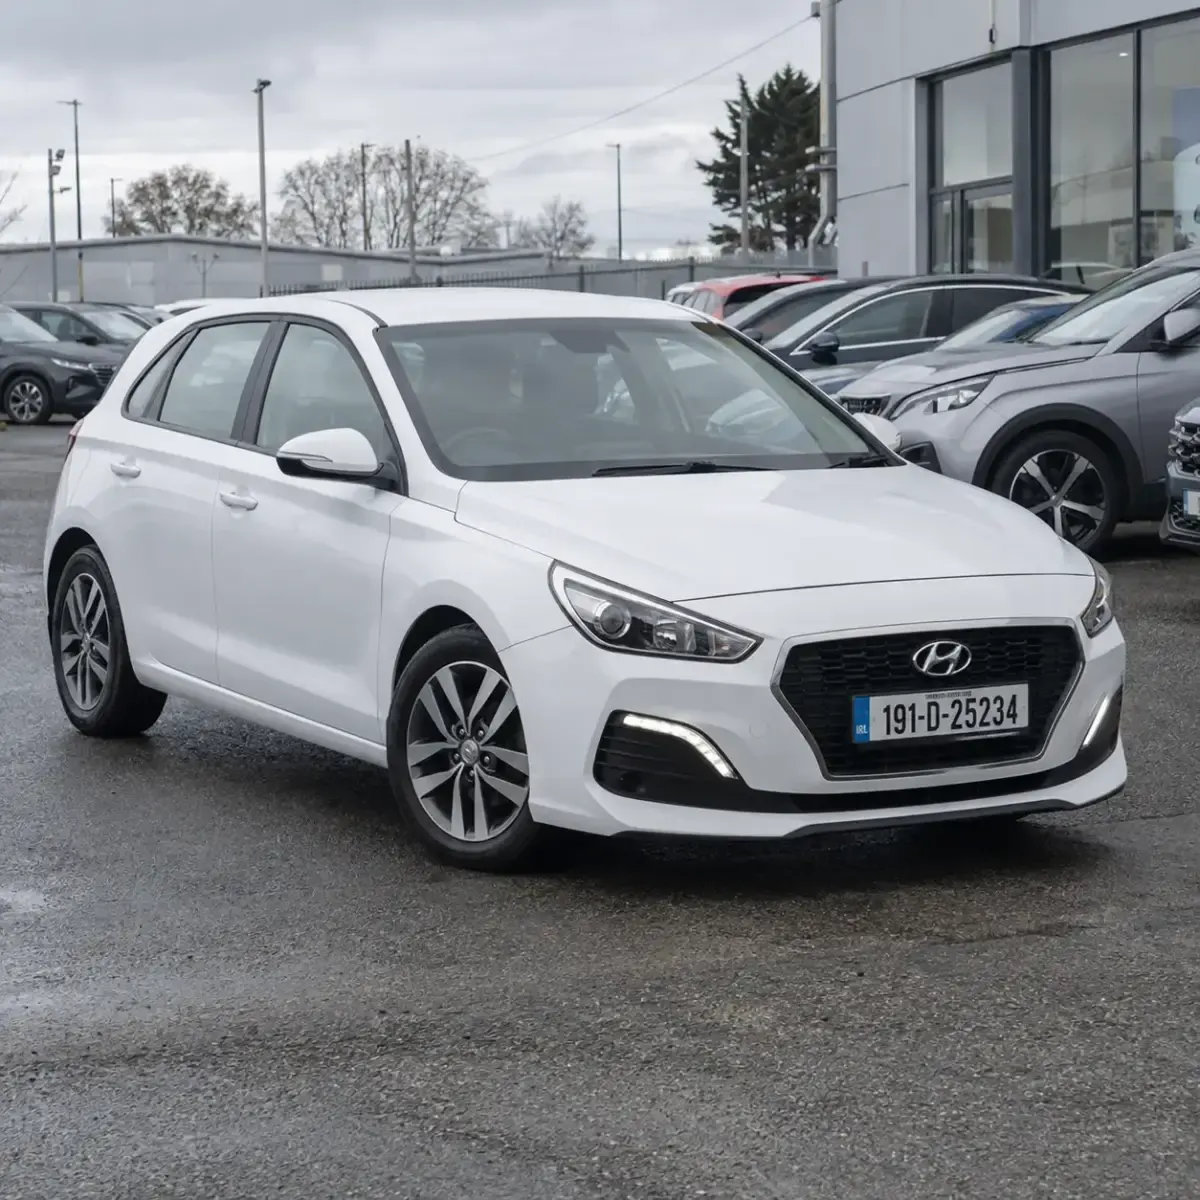
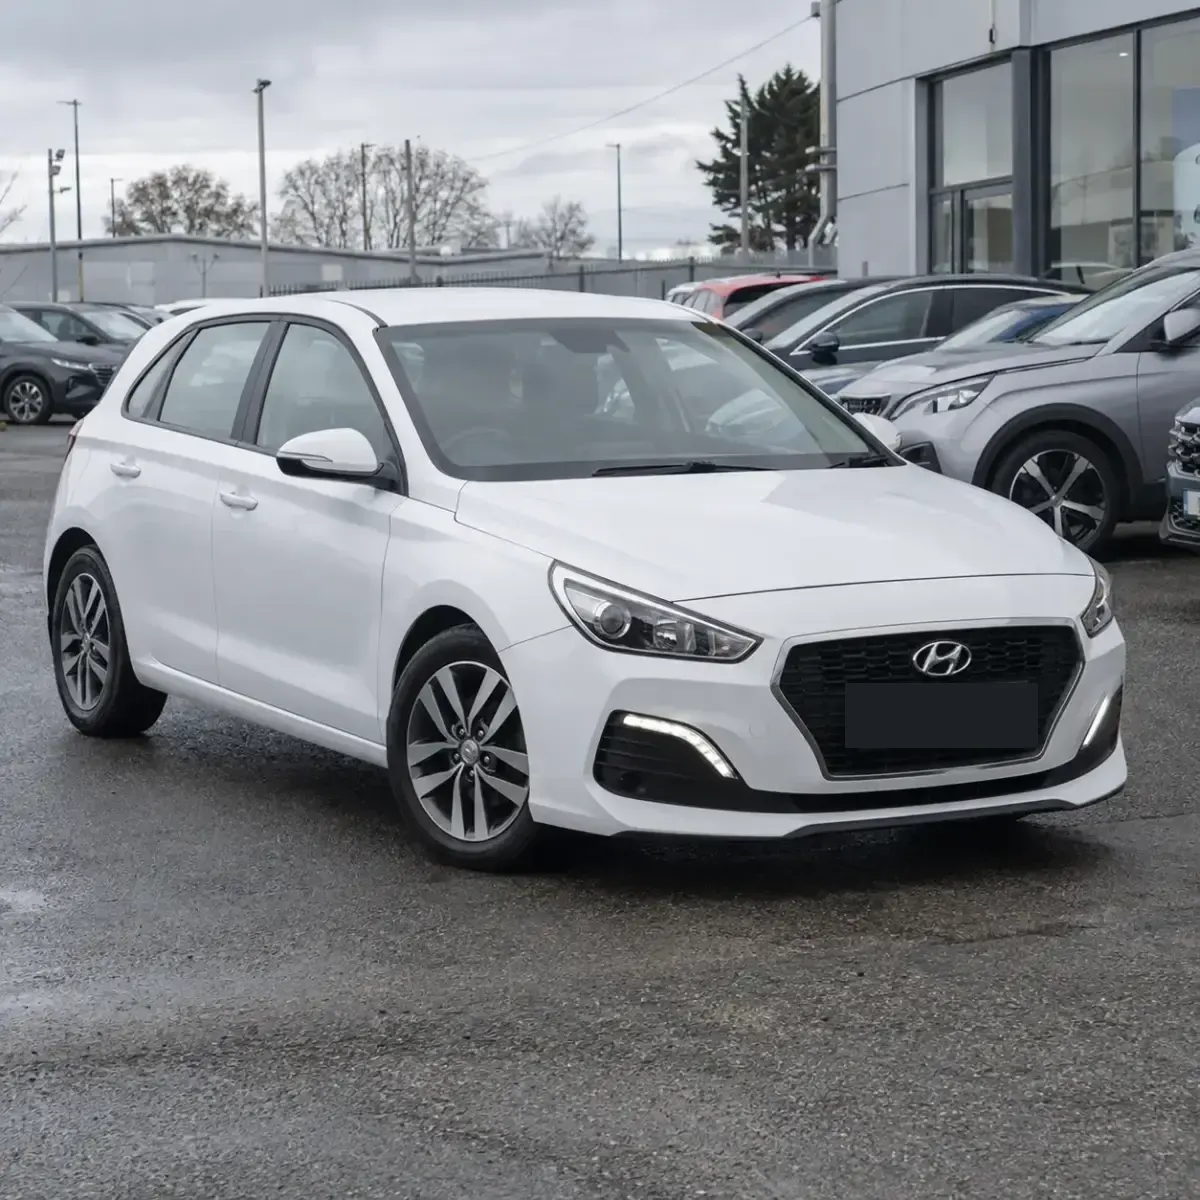
Midland Motors: faster passport scene, plates, image sizes, perf

Changed region(s): [[0.7092, 0.555, 0.8633, 0.6475]]

diff --git a/src/scripts/app.js b/src/scripts/app.js
@@ -237,18 +237,19 @@ function stripSummary(){
 function scrub(car, cls=''){
   const tg = [car.owners===1?'1 owner':'', car.fullServiceHistory?'Full service history':''].filter(Boolean).join(' · ');
   const tags = cls==='tags' && tg ? `<span class="tags"><span>${tg}</span></span>` : '';
-  return `<div class="scrub" data-scrub="${car.slug}"><img src="${car.photos[0]}" alt="${nm(car)} ${car.variant}" loading="lazy">${tags}</div>`;
+  return `<div class="scrub" data-scrub="${car.slug}"><img src="${small(car.photos[0])}" alt="${nm(car)} ${car.variant}" loading="lazy">${tags}</div>`;
 }
+const small = p => p.replace('.webp','-640.webp'), mid = p => p.replace('.webp','-960.webp');
 const preloaded = new Set();
 document.addEventListener('pointermove', e => {
   const s = e.target.closest && e.target.closest('[data-scrub]'); if (!s || e.pointerType==='touch') return;
   const car = bySlug(s.dataset.scrub);
-  if (!preloaded.has(car.slug)){ preloaded.add(car.slug); car.photos.forEach(p=>{ const im=new Image(); im.src=p; }); }
+  if (!preloaded.has(car.slug)){ preloaded.add(car.slug); car.photos.forEach(p=>{ const im=new Image(); im.src=small(p); }); }
   const r = s.getBoundingClientRect(), n = car.photos.length; const i = Math.max(0, Math.min(n-1, Math.floor((e.clientX - r.left) / r.width * n)));
   setScrub(s, car, i);
 });
 document.addEventListener('pointerout', e => { const s = e.target.closest && e.target.closest('[data-scrub]'); if (s && !s.contains(e.relatedTarget)) setScrub(s, bySlug(s.dataset.scrub), 0); });
-function setScrub(s, car, i){ if (s.dataset.i == i) return; s.dataset.i = i; s.querySelector('img').src = car.photos[i]; }
+function setScrub(s, car, i){ if (s.dataset.i == i) return; s.dataset.i = i; s.querySelector('img').src = small(car.photos[i]); }
 let touchX = null;
 document.addEventListener('touchstart', e => { const s = e.target.closest && e.target.closest('[data-scrub]'); if (s){ touchX = e.touches[0].clientX; s.classList.add('touched'); } }, {passive:true});
 document.addEventListener('touchend', e => { const s = e.target.closest && e.target.closest('[data-scrub]'); if (!s || touchX===null) return; const dx = e.changedTouches[0].clientX - touchX; touchX = null; if (Math.abs(dx) < 30) return; const car = bySlug(s.dataset.scrub); const i = Math.max(0, Math.min(car.photos.length-1, (+s.dataset.i||0) + (dx<0?1:-1))); setScrub(s, car, i); }, {passive:true});
@@ -365,8 +366,8 @@ function carHTML(c){
   return `
   <div class="wrap crumb"><a href="/stock/">Stock</a> / ${nm(c)}</div>
   <div class="wrap car-top">
-    <div><div class="gal-main" data-zoom><img id="galMain" src="${c.photos[0]}" alt="${nm(c)}, front three-quarter view"></div>
-      <div class="thumbs">${c.photos.map((p,i)=>`<button class="${i?'':'on'}" data-thumb="${i}" aria-label="Photo ${i+1} of ${c.photos.length}"><img src="${p}" alt=""></button>`).join('')}</div></div>
+    <div><div class="gal-main" data-zoom><img id="galMain" data-i="0" src="${mid(c.photos[0])}" fetchpriority="high" alt="${nm(c)}, front three-quarter view"></div>
+      <div class="thumbs">${c.photos.map((p,i)=>`<button class="${i?'':'on'}" data-thumb="${i}" aria-label="Photo ${i+1} of ${c.photos.length}"><img src="${small(p)}" alt="" loading="lazy"></button>`).join('')}</div></div>
     <aside class="buybox">
       <div><h1 class="d" style="font-size:40px">${nm(c)}</h1><div class="muted" style="margin-top:6px">${c.variant} · ${c.colour} · ${c.body}</div></div>
       <div><div style="font:600 44px/1.1 var(--body)">${eur(c.price)}</div><div class="small muted">or ${eur(c.monthlyFrom)} a month over 60 months, 10% deposit</div></div>
@@ -613,9 +614,9 @@ function startDrive(){
     brand.classList.add('draw'); cta.classList.add('show'); return;
   }
   // One road: the gravel and the history stops travel together, at one speed, entering off the right edge and leaving off the left.
-  const V = Math.max(200, W*0.155);                     // px/s
-  const ENTER = 1.3, startX = W + 150, GAP = W + 260;  // one stop on screen at a time
-  const restX = centreX, DEC = 2.2;
+  const V = Math.max(300, W*0.25);                     // px/s
+  const ENTER = 0.9, startX = W + 150, GAP = W + 260;  // one stop on screen at a time
+  const restX = centreX, DEC = 1.7;
   const spawnP = S.map((_,i)=> V*1.0 + i*GAP);          // road position at which stop i appears at startX
   const pStop = spawnP[last] + (startX - restX);        // road position where the last stop rests under the car
   const tDec = (pStop - V*DEC/2)/V, tStop = tDec + DEC; // constant speed, then ease to a halt landing exactly on pStop
@@ -629,7 +630,7 @@ function startDrive(){
     const k = Math.min(1, t/ENTER), e = 1 - Math.pow(1-k, 3);
     car.style.transform = `translateX(${(-carW - 60 + (carX + carW + 60)*e).toFixed(1)}px)`;
     rot += v * dt / wheelR * 180/Math.PI;
-    const bl = (v/V*1.6).toFixed(2);                    // light motion blur on the spinning wheels hides the strobing highlight
+    const bl = (v/V*0.5).toFixed(2);                    // light motion blur on the spinning wheels hides the strobing highlight
     wheels.forEach(w => { w.style.transform = `rotate(${rot.toFixed(2)}deg)`; w.style.filter = v>2 ? `blur(${bl}px)` : 'none'; });
     bob.style.transform = `translateY(${(v>5 ? Math.sin(t*7.5)*0.8 + Math.sin(t*2.3)*0.5 : 0).toFixed(2)}px)`;
     stopEls.forEach((el,i) => {
@@ -710,10 +711,10 @@ function initCar(c){
   $('#zgrid').addEventListener('pointerleave', () => { hov = null; paint(); });
   function flip(to){ const f = $('#isoFlip'); f.classList.add('mid'); setTimeout(()=>{ side = to || (side==='L'?'R':'L'); draw(); f.classList.remove('mid'); }, reduce?0:300); }
   $('[data-flip]').addEventListener('click', () => { hov = null; const next = side==='L'?'R':'L'; if (['doorFL','doorRL','doorFR','doorRR'].includes(sel)) sel = ({doorFL:'doorFR',doorRL:'doorRR',doorFR:'doorFL',doorRR:'doorRL'})[sel]; flip(next); });
-  draw();
+  { const insp = $('.insp'); if ('IntersectionObserver' in window && insp){ const io = new IntersectionObserver(es => { if (es[0].isIntersecting){ io.disconnect(); draw(); } }, {rootMargin:'700px 0px'}); io.observe(insp); } else draw(); }
   // gallery
-  $$('[data-thumb]').forEach(b => b.addEventListener('click', () => { const i=+b.dataset.thumb; $('#galMain').src = c.photos[i]; $$('[data-thumb]').forEach(x=>x.classList.toggle('on', x===b)); }));
-  $('[data-zoom]').addEventListener('click', () => { const lb = $('#lightbox'); lb.querySelector('img').src = $('#galMain').src; lb.classList.add('on'); });
+  $$('[data-thumb]').forEach(b => b.addEventListener('click', () => { const i=+b.dataset.thumb; $('#galMain').src = mid(c.photos[i]); $('#galMain').dataset.i = i; $$('[data-thumb]').forEach(x=>x.classList.toggle('on', x===b)); }));
+  $('[data-zoom]').addEventListener('click', () => { const lb = $('#lightbox'); lb.querySelector('img').src = c.photos[+$('#galMain').dataset.i || 0]; lb.classList.add('on'); });
   // calc
   let term = 60;
   const dep = $('#dep');

diff --git a/src/scripts/data.js b/src/scripts/data.js
@@ -1,6 +1,5 @@
 import cars from '../data/cars.json';
 import checklist from '../data/checklist.json';
 import site from '../data/site.json';
-import iso from '../data/inspection-car.json';
 import './logo.js';
-window.MM = { cars: cars.cars, checklist, site, iso };
+window.MM = { cars: cars.cars, checklist, site };

diff --git a/KONTROL.md b/KONTROL.md
@@ -1,21 +1,23 @@
 # Kontrol (sürüm 3)
 
-Build: `npm run build` hatasız, 30 statik sayfa. Lighthouse mobil (yerel preview, sıkıştırmasız sunucu): Ana sayfa 92/100/100/100 · Stock 93/100/100/100 · Certified ≈94/100/100/100 · Finance ≈95/100/100/100 · Araç sayfaları Performance 78–84, diğer kategoriler 100.
-Taşma taraması (Chrome, 1440/1280/1100/1024/834/768/600/390/360 × 6 sayfa): yatay taşma yok, header tek satır.
+Build: `npm run build` hatasız, 30 statik sayfa.
+Lighthouse mobil (Performance / Accessibility / Best Practices / SEO): Ana sayfa 92/100/100/100 · Stock 94/100/100/100 · BMW 3 Series 90/100/100/100 · GLC 96/100/100/100 · Peugeot 208 94/100/100/100 · Certified 98/100/100/100 · Finance 98/100/100/100.
+Taşma taraması (Chrome; 1440/1280/1100/1024/834/768/600/390/360 × 6 sayfa): yatay taşma yok, header tek satır.
 
 | Madde | Durum | Not |
 |---|---|---|
-| Gerçek yollar (/stock/, /cars/<slug>/, /certified/, /finance/, /privacy/, 404) | ✓ | tarayıcıda gezinme doğrulandı |
-| Hero video + "Know where it's been." (farlarla kelime kelime yanar) | ✓ | farlar ≈ 2.8 sn (`HEADLIGHTS`), ekran görüntüsüyle doğrulandı |
-| İlk giriş kadranı | ✓ | `setTimeout` ile, en fazla 1 sn |
-| Arama kutusu, filtreler, canlı "Show N cars", Clear all | ✓ | Diesel 5, +1 owner 4 araba; temizleyince 24 |
-| Pasaport sahnesi | ✓ | araba girer, duraklar akar, son durakta durur, logo çizilir, CTA + Replay (1440 ve 390) |
-| Muayene krokisi, bölge seçimi, sağ/sol | ✓ | |
-| Galeri tam ekran, Esc ve oklar | ✓ | oklar eklendi |
-| Paneller: takas, test sürüşü (açılış), ayırma (açılış) | ✓ | takas akışı uçtan uca çalıştı (€13,600 – €14,700) |
-| Test sürüşü onay adımı, ayırma onayı | ✗ | uçtan uca denenmedi |
-| Canlı açık/kapalı | ✓ | "Closed now · opens today at 9am" |
-| Sabit test sürüşü → footer morph | ✗ | taşındı, ekranla doğrulanmadı (hareket) |
-| Araç sayfası Lighthouse Performance ≥ 90 | ✗ | 78–84; 175 KB JS, sunucu sıkıştırması yok, içerik istemcide çiziliyor |
-| JSON-LD (Vehicle + Offer) | ✓ | araç sayfalarında |
-| Plakaların kapatılması | ✗ | önemsiz denmişti, yapılmadı |
+| Gerçek yollar (/stock/, /cars/<slug>/, /certified/, /finance/, /privacy/, 404) | ✓ | |
+| Hero video + "Know where it's been." | ✓ | farlar ≈ 2.8 sn (`HEADLIGHTS`) |
+| İlk giriş kadranı | ✓ | |
+| Arama kutusu, filtreler, "Show N cars", Clear all | ✓ | |
+| Pasaport sahnesi | ✓ | 20 Ekim isteği: araba ve yol ~%60 hızlandı, tekerlek bulanıklığı düşürüldü, giriş 0.9 sn, toplam ≈ 22 sn |
+| Muayene krokisi, sağ/sol | ✓ | kroki görselleri ekrana yaklaşınca yüklenir |
+| Galeri tam ekran, Esc ve oklar | ✓ | |
+| Takas paneli | ✓ | uçtan uca |
+| Test sürüşü paneli | ✓ | uçtan uca: "See you Wednesday 21 October at 11:00." |
+| Ayırma paneli | ✓ | uçtan uca: "yours until Monday, 26 October" |
+| Canlı açık/kapalı | ✓ | |
+| Sabit test sürüşü → footer | ✓ | belirir, footer'da morph olur, geri kaydırınca ayrılır (sınıflarla doğrulandı) |
+| Plakalar | ✓ | i30 ×2, 208, 3008 ×2 düz #1E2124 ile kapatıldı (`scripts/plates.mjs`) |
+| JSON-LD (Vehicle + Offer) | ✓ | |
+| Prototiple yan yana ekran karşılaştırması | ✗ | elle sayfa sayfa bakıldı, piksel karşılaştırması yapılmadı |

diff --git a/SAPMALAR.md b/SAPMALAR.md
@@ -9,3 +9,6 @@
 - Fontlar `@fontsource` ile kendi sunucudan; prototipteki Google Fonts bağlantısı kaldırıldı.
 - ford-focus 01/02 yer değişimi yapılmadı: arabanın fotoğraf listesi zaten 03'ten başlıyor.
 - Mobil için ayrı tur yapılmadı; prototipin duyarlı kuralları aynen taşındı.
+- Araba fotoğrafları: 1280, 960 (galeri ana görseli) ve 640 (küçük resim, satır, kart) WebP. Araç sayfasında ilk fotoğraf `<link rel=preload>` ile öne alınır.
+- Pasaport sahnesi hızı kullanıcı isteğiyle prototipin %60 üstünde (`V = max(300, W*0.25)`), tekerlek bulanıklığı 1.6 → 0.5 px.
+- Plakalar fotoğraflara kalıcı işlendi; `scripts/prep.mjs` çalıştırılırsa `scripts/plates.mjs` ve 960 varyantlarının plakaları yeniden uygulanmalı.

diff --git a/PLAKALAR.md b/PLAKALAR.md
@@ -1,3 +1,3 @@
 # Plakalar
 
-Düşük öncelikli madde, yapılmadı: fotoğraflarda okunabilen plakalar (i30, 208, 3008) kapatılmadı. Sonraki turda düz #1E2124 dörtgenle kapatılacak.
+Okunabilen plakalar (i30 ×2, 208, 3008 ×2) düz #1E2124 dörtgenle kapatıldı; kod: scripts/plates.mjs.
